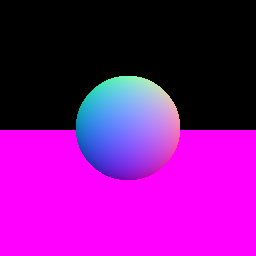
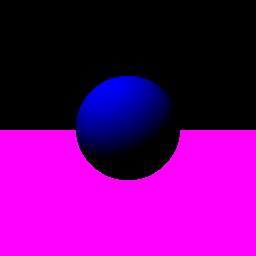
Add a light source

Changed region(s): [[0.2812, 0.2812, 0.7188, 0.7188]]

diff --git a/main.go b/main.go
@@ -30,7 +30,7 @@ func sphereSurfaceNormal(p vec.Vec3, s shape.Sphere) vec.Vec3 {
 	return vec.V3(gradientX, gradientY, gradientZ).Unit()
 }
 
-func rayMarch(origin, direction vec.Vec3, sphere shape.Sphere) vec.Vec3 {
+func rayMarch(origin, direction vec.Vec3, light vec.Vec3, sphere shape.Sphere) vec.Vec3 {
 	distanceFromOrigin := 0.0
 
 	for i := 0; i < MAX_STEPS; i++ {
@@ -44,7 +44,11 @@ func rayMarch(origin, direction vec.Vec3, sphere shape.Sphere) vec.Vec3 {
 		// Hit Sphere
 		if sphereDistance < planeDistance && sphereDistance < MIN_HIT_DISTANCE {
 			n := sphereSurfaceNormal(currentPosition, sphere)
-			return n.Scale(0.5).Add(vec.V3(0.5, 0.5, 0.5))
+
+			lightDirection := light.Sub(currentPosition).Unit()
+			diffuseIntensity := math.Max(0.0, n.Dot(lightDirection))
+
+			return vec.V3(0, 0, 1).Scale(diffuseIntensity)
 		}
 
 		// Hit ground plane
@@ -73,6 +77,7 @@ func main() {
 	cam := camera.New(vec.V3(0, 1, 0), -1, 45)
 
 	sphere := shape.NewSphere(vec.V3(0, 1, -6), 1)
+	light := vec.V3(-2, 5, -3)
 
 	for x := 0; x <= width; x++ {
 		for y := 0; y <= height; y++ {
@@ -98,7 +103,8 @@ func main() {
 
 			rayDirection := vec.V3(cameraX, cameraY, cam.LookAt).Unit()
 
-			hitPoint := rayMarch(cam.Position, rayDirection, sphere)
+			hitPoint := rayMarch(cam.Position, rayDirection, light, sphere)
+
 			r := uint8(255.99 * hitPoint.X)
 			g := uint8(255.99 * hitPoint.Y)
 			b := uint8(255.99 * hitPoint.Z)
